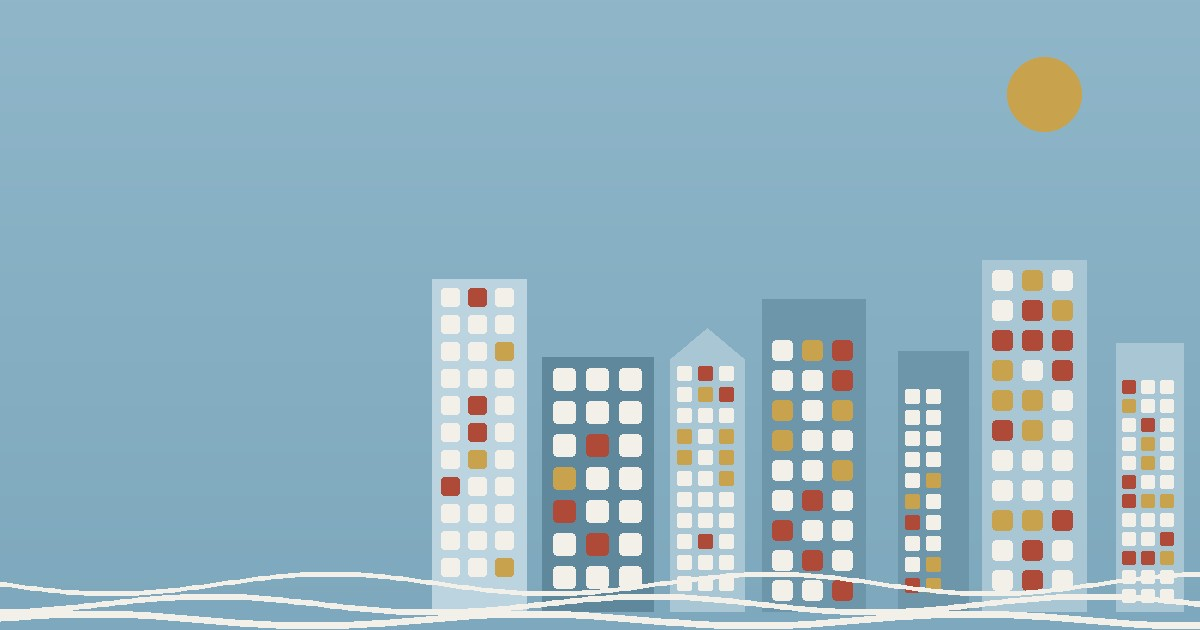
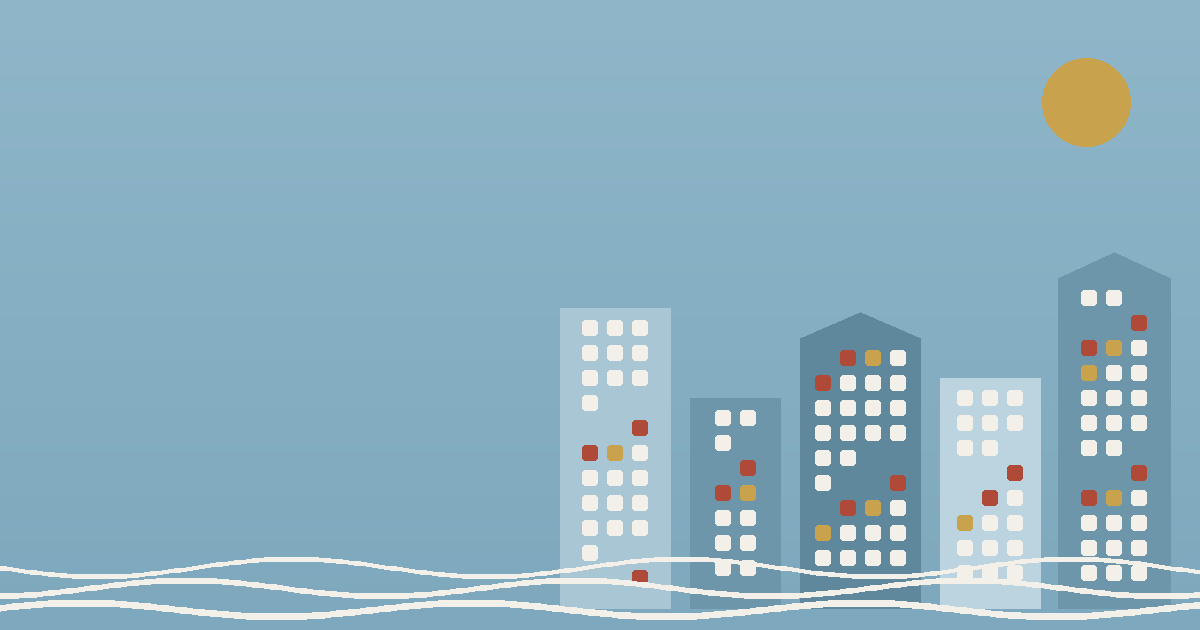
Profilfinish: logotyp efter förlagan (vattenfall/hus/kyrka/vågor), knivskarp SVG-heroscen med högerförankring, mässing som knappdetalj, skarp og-bild

Changed region(s): [[0.0, 0.3921, 1.0, 1.0], [0.8325, 0.0905, 0.9558, 0.2413]]

diff --git a/client/src/components/Logo.jsx b/client/src/components/Logo.jsx
@@ -1,25 +1,45 @@
-/** Logotyp enligt grafisk grundprofil v1.0: enfärgad antracit mot ljus bakgrund,
- *  vit negativ mot kanalblå/mörka ytor. Tegel och mässing blandas aldrig in i märket.
- *  Ordbilden sätts i Century Schoolbook (systemstack). */
+/** Logotyp efter förlagan i grafisk grundprofil v1.0: vattenfallet, hyreshuset,
+ *  kyrkan och vattnet – enfärgad antracit mot ljust, vit negativ mot mörkt.
+ *  Ordbild i Century Schoolbook. Tegel/mässing blandas aldrig in i märket. */
 export function Logo({ ljus = false, className = '' }) {
-  const mark = ljus ? '#FFFFFF' : 'var(--foreground)';
-  const fonster = ljus ? 'rgba(53,89,107,0.9)' : 'rgba(242,240,233,0.92)';
-  const under = ljus ? 'rgba(255,255,255,0.65)' : 'var(--muted-foreground)';
+  const M = ljus ? '#FFFFFF' : 'var(--foreground)';           // märkets färg
+  const U = ljus ? '#21282D' : '#F2F0E9';                     // urtag (fönster, urtavla)
+  const under = ljus ? 'rgba(255,255,255,0.7)' : 'var(--muted-foreground)';
   return (
-    <span className={`inline-flex items-center gap-2.5 ${className}`}>
-      <svg width="34" height="34" viewBox="0 0 32 32" aria-hidden="true" className="shrink-0">
-        <rect width="32" height="32" rx="7" fill={mark} opacity={ljus ? 0.95 : 1} />
-        {[
-          [7, 7], [13.5, 7], [20, 7],
-          [7, 13.5], [13.5, 13.5], [20, 13.5],
-          [7, 20], [13.5, 20], [20, 20],
-        ].map(([x, y]) => <rect key={x + '-' + y} x={x} y={y} width="5" height="5" rx="1.2" fill={fonster} />)}
+    <span className={`inline-flex items-center gap-3 ${className}`}>
+      <svg width="52" height="40" viewBox="0 0 76 56" aria-hidden="true" className="shrink-0">
+        <g fill={M}>
+          {/* Vattenfallet – hylla och tre kaskadband */}
+          <rect x="2" y="16" width="16" height="5" rx="2.5" />
+          <rect x="3.5" y="21" width="3.6" height="24" rx="1.8" />
+          <rect x="8.6" y="21" width="3.6" height="19" rx="1.8" />
+          <rect x="13.7" y="21" width="3.6" height="14" rx="1.8" />
+          {/* Hyreshuset */}
+          <rect x="22" y="7" width="17" height="39" rx="1.5" />
+          {/* Kyrkan: långhus, tak, torn, spira */}
+          <rect x="46" y="27" width="24" height="19" />
+          <polygon points="44,27 58,17.5 72,27" />
+          <rect x="47.5" y="10" width="9" height="18" />
+          <polygon points="46,10 52,2 58,10" />
+        </g>
+        {/* Urtag i märket */}
+        <circle cx="52" cy="14.5" r="2.3" fill={U} />
+        {[0, 1, 2].map((r) => [0, 1].map((c) => (
+          <rect key={r + '-' + c} x={25.5 + c * 6.4} y={10.5 + r * 8.2} width="4" height="5" rx="1.2" fill={U} />
+        )))}
+        <rect x="25.5" y="35" width="4" height="8" rx="1.2" fill={U} />
+        <rect x="31.9" y="35" width="4" height="8" rx="1.2" fill={U} />
+        {[0, 1, 2].map((i) => (
+          <rect key={i} x={51 + i * 5.6} y="32" width="3.4" height="8" rx="1.7" fill={U} />
+        ))}
+        {/* Vattnet */}
+        <path d="M42 50 q4 -3.5 8 0 t8 0 t8 0 t8 0" fill="none" stroke={M} strokeWidth="2.6" strokeLinecap="round" />
+        <path d="M46 54 q4 -3.5 8 0 t8 0 t8 0" fill="none" stroke={M} strokeWidth="2.6" strokeLinecap="round" />
       </svg>
       <span className="leading-none">
-        <span className="block font-logo font-bold text-[16px] tracking-[0.02em]" style={{ color: ljus ? '#FFFFFF' : 'var(--foreground)' }}>
-          FALLENS FASTIGHETER
-        </span>
-        <span className="block text-[10.5px] font-semibold uppercase tracking-[0.18em] mt-1" style={{ color: under }}>Trollhättan · Vänersborg</span>
+        <span className="block font-logo font-bold text-[19px] tracking-[0.06em]" style={{ color: M }}>FALLENS</span>
+        <span className="block font-logo text-[10px] tracking-[0.22em] mt-1" style={{ color: ljus ? 'rgba(255,255,255,0.92)' : 'var(--foreground)' }}>FASTIGHETER AB</span>
+        <span className="block text-[8.5px] font-sans font-semibold uppercase tracking-[0.18em] mt-1" style={{ color: under }}>Trollhättan · Vänersborg</span>
       </span>
     </span>
   );

diff --git a/client/src/components/HeroScen.jsx b/client/src/components/HeroScen.jsx
@@ -1,0 +1,86 @@
+/** Heroscen enligt grafisk grundprofil: ljus kanalblå yta, hus med fönster i
+ *  benvit/tegel/mässing, mässingssol och vågor. Ritad som SVG – knivskarp i alla
+ *  storlekar. Husen är förankrade i högerkant (xMaxYMax slice) så mobilbeskärningen
+ *  alltid visar staden, inte tom gradient. */
+const BENVIT = '#F2F0E9';
+const TEGEL = '#AF4A38';
+const MASSING = '#C9A24E';
+const FASADER = ['#A9C6D4', '#6E96AB', '#5F889D', '#BCD4DF'];
+
+const HUS = [
+  { x: 830, w: 118, h: 470, c: 0, tak: false },
+  { x: 972, w: 96, h: 300, c: 1, tak: false },
+  { x: 1088, w: 128, h: 400, c: 2, tak: true },
+  { x: 1238, w: 104, h: 330, c: 3, tak: false },
+  { x: 1362, w: 122, h: 520, c: 1, tak: true },
+  { x: 1502, w: 110, h: 380, c: 0, tak: false },
+];
+
+function fonsterFarg(bi, ix, iy) {
+  const k = (bi * 37 + ix * 11 + iy * 17) % 100;
+  if (k < 62) return BENVIT;
+  if (k < 82) return null; // släckt – fasadens färg
+  if (k < 93) return TEGEL;
+  return MASSING;
+}
+
+function vag(y, amp, fas) {
+  const seg = [];
+  for (let x = -40; x <= 1640; x += 80) {
+    const mitt = x + 40;
+    const rikt = ((x / 80 + fas) % 2 === 0 ? -1 : 1) * amp;
+    seg.push(`Q ${mitt} ${y + rikt} ${x + 80} ${y}`);
+  }
+  return `M -40 ${y} ` + seg.join(' ');
+}
+
+export function HeroScen() {
+  const MARK = 872; // marklinje
+  return (
+    <svg
+      viewBox="0 0 1600 900"
+      preserveAspectRatio="xMaxYMax slice"
+      className="absolute inset-0 h-full w-full"
+      aria-hidden="true"
+    >
+      <defs>
+        <linearGradient id="himmel" x1="0" y1="0" x2="0" y2="1">
+          <stop offset="0" stopColor="#8FB6C9" />
+          <stop offset="1" stopColor="#7EA8BD" />
+        </linearGradient>
+      </defs>
+      <rect width="1600" height="900" fill="url(#himmel)" />
+      <circle cx="1552" cy="224" r="46" fill={MASSING} className="hidden sm:block" />
+
+      {HUS.map((h, bi) => {
+        const topp = MARK - h.h;
+        const cell = 18; const gap = 12;
+        const cols = Math.floor((h.w - 20) / (cell + gap));
+        const rows = Math.floor((h.h - 26) / (cell + gap));
+        const padX = (h.w - (cols * cell + (cols - 1) * gap)) / 2;
+        const fonster = [];
+        for (let iy = 0; iy < rows; iy++) {
+          for (let ix = 0; ix < cols; ix++) {
+            const f = fonsterFarg(bi, ix, iy);
+            if (!f) continue;
+            fonster.push(
+              <rect key={ix + '-' + iy} x={h.x + padX + ix * (cell + gap)} y={topp + 14 + iy * (cell + gap)}
+                width={cell} height={cell} rx="3.5" fill={f} />
+            );
+          }
+        }
+        return (
+          <g key={bi}>
+            {h.tak && <polygon points={`${h.x},${topp} ${h.x + h.w / 2},${topp - 34} ${h.x + h.w},${topp}`} fill={FASADER[h.c]} />}
+            <rect x={h.x} y={topp} width={h.w} height={h.h} fill={FASADER[h.c]} />
+            {fonster}
+          </g>
+        );
+      })}
+
+      <path d={vag(852, 10, 1)} fill="none" stroke={BENVIT} strokeWidth="6" strokeLinecap="round" opacity="0.9" />
+      <path d={vag(876, 9, 0)} fill="none" stroke={BENVIT} strokeWidth="7" strokeLinecap="round" />
+      <path d={vag(896, 8, 1)} fill="none" stroke={BENVIT} strokeWidth="8" strokeLinecap="round" />
+    </svg>
+  );
+}

diff --git a/client/src/pages/public/Home.jsx b/client/src/pages/public/Home.jsx
@@ -1,4 +1,5 @@
 import { Link } from 'react-router-dom';
+import { HeroScen } from '../../components/HeroScen.jsx';
 import { usePageMeta } from '../../lib/meta.js';
 import { useSite } from '../../context/SiteContext.jsx';
 import { pub } from '../../lib/api.js';
@@ -21,7 +22,7 @@ function Teaser({ rubrik, under, objekt, laddar, tomRubrik, tomText, tomCta, lis
             <h2 className="h2">{rubrik}</h2>
             <p className="ingress mt-2">{under}</p>
           </div>
-          <Link to={listLank} className="btn-outline btn-sm shrink-0">{listText}</Link>
+          <Link to={listLank} className="btn-accent btn-sm shrink-0">{listText}</Link>
         </div>
         {laddar ? <PageSpinner /> : objekt.length === 0 ? (
           <EmptyState rubrik={tomRubrik} text={tomText} cta={tomCta} ctaTill={ankareLank} />
@@ -52,9 +53,8 @@ export default function Home() {
     <>
       {/* 1. Hero */}
       <section className="relative isolate overflow-hidden bg-kanal text-ink">
-        <img src="/images/hero.jpg" alt="" aria-hidden="true" fetchpriority="high"
-          className="absolute inset-0 h-full w-full object-cover" />
-        <div className="absolute inset-0 bg-gradient-to-r from-kanal via-kanal/75 to-transparent" aria-hidden="true" />
+        <HeroScen />
+        <div className="absolute inset-0 bg-gradient-to-b from-kanal/95 via-kanal/40 to-transparent sm:bg-gradient-to-r sm:from-kanal/95 sm:via-kanal/60 sm:to-transparent" aria-hidden="true" />
         <div className="container-site relative py-24 md:py-36">
           <p className="overline-badge !text-primary-dark">Trollhättan · Vänersborg</p>
           <h1 className="h1 mt-4 max-w-3xl">Vi ser möjligheterna i våra fastigheter.</h1>

diff --git a/client/src/index.css b/client/src/index.css
@@ -73,6 +73,7 @@ body { @apply bg-bg text-ink font-sans antialiased; }
   .btn-outline { @apply btn border border-line bg-card text-ink hover:border-primary hover:text-primary; }
   .btn-ghost { @apply btn px-3 py-2 text-primary hover:bg-muted; }
   .btn-destructive { @apply btn bg-destructive text-white hover:bg-[#99402F]; }
+  .btn-accent { @apply btn bg-accent text-ink hover:bg-[#9A8443]; }
   .btn-sm { @apply px-3.5 py-2 text-sm; }
 
   .card { @apply bg-card rounded-xl border border-line shadow-card; }
